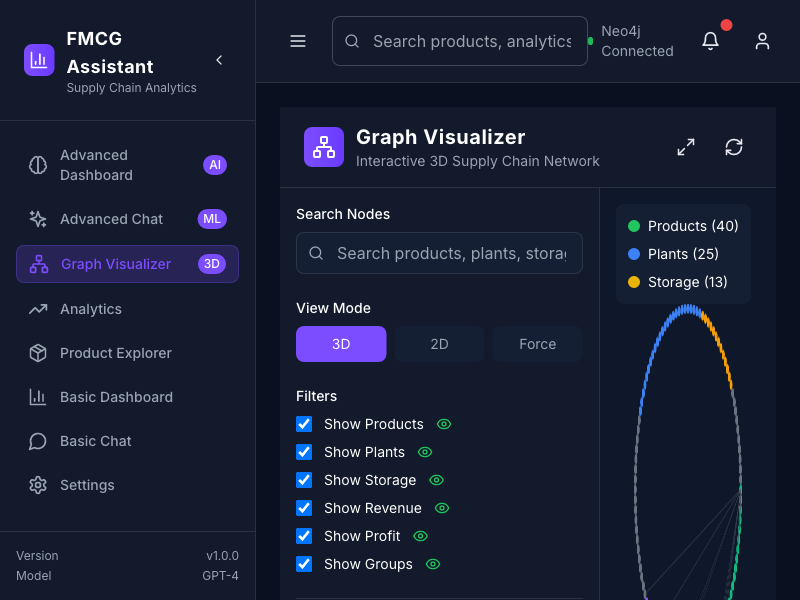
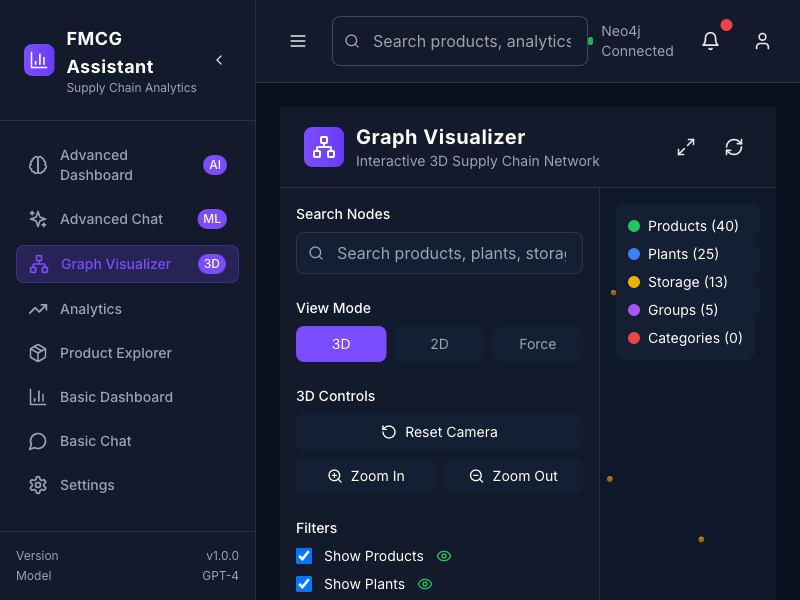
Optimize 3D visualization with WebGL performance improvements and error handling

diff --git a/src/pages/GraphVisualizer.jsx b/src/pages/GraphVisualizer.jsx
@@ -59,16 +59,29 @@ const GraphVisualizer = () => {
   // 3D Graph visualization with ForceGraph3D
   const graphRef = useRef()
   const [graphConfig, setGraphConfig] = useState({
-    showNavInfo: true,
+    showNavInfo: false, // Disable nav info to reduce GPU load
     enableNodeDrag: true,
-    enableNavigationControls: true,
+    enableNavigationControls: false, // Disable built-in controls to reduce GPU load
     backgroundColor: '#0F172A',
-    nodeRelSize: 6,
-    linkWidth: 2,
-    linkOpacity: 0.6,
-    d3AlphaDecay: 0.02,
-    d3VelocityDecay: 0.1,
-    cooldownTicks: 100
+    nodeRelSize: 4, // Reduce node size
+    linkWidth: 1, // Reduce link width
+    linkOpacity: 0.4, // Reduce opacity
+    d3AlphaDecay: 0.01, // Faster simulation
+    d3VelocityDecay: 0.3, // More damping
+    cooldownTicks: 50, // Fewer ticks
+    // Performance optimizations
+    enablePointerInteraction: true,
+    enableNodeInteraction: true,
+    enableLinkInteraction: false, // Disable link interaction to reduce GPU load
+    // WebGL optimizations
+    antialias: false, // Disable antialiasing for better performance
+    pixelRatio: 1, // Use 1:1 pixel ratio
+    // Reduce simulation complexity
+    d3Force: 'link',
+    d3ForceLink: {
+      distance: 50,
+      iterations: 10
+    }
   })
 
   // Prepare graph data for 3D visualization
@@ -134,11 +147,25 @@ const GraphVisualizer = () => {
   }, [graphData])
 
   const graphData3D = prepareGraphData()
+  const [webglError, setWebglError] = useState(false)
+  const [graphReady, setGraphReady] = useState(false)
 
   // Graph interaction handlers
   const handleNodeClick = useCallback((node) => {
     setSelectedNode(node)
     console.log('Node clicked:', node)
+  }, [])
+
+  // Handle WebGL errors
+  const handleWebGLError = useCallback((error) => {
+    console.error('WebGL Error:', error)
+    setWebglError(true)
+  }, [])
+
+  // Handle graph ready
+  const handleGraphReady = useCallback(() => {
+    console.log('✅ ForceGraph3D is ready')
+    setGraphReady(true)
   }, [])
 
   const handleBackgroundClick = useCallback(() => {
@@ -462,6 +489,39 @@ const GraphVisualizer = () => {
           <div className="absolute inset-0 bg-gradient-to-br from-dark-bg to-surface">
             {graphData3D && graphData3D.nodes && graphData3D.nodes.length > 0 ? (
               <div className="w-full h-full relative">
+                {/* Loading State */}
+                {!graphReady && !webglError && (
+                  <div className="absolute inset-0 flex items-center justify-center bg-dark-bg/50 z-10">
+                    <div className="text-center">
+                      <div className="w-16 h-16 border-4 border-brand-500 border-t-transparent rounded-full animate-spin mx-auto mb-4"></div>
+                      <h3 className="text-lg font-semibold text-white mb-2">Loading 3D Visualization</h3>
+                      <p className="text-dark-muted">Initializing WebGL renderer...</p>
+                    </div>
+                  </div>
+                )}
+
+                {/* WebGL Error Fallback */}
+                {webglError && (
+                  <div className="absolute inset-0 flex items-center justify-center bg-dark-bg/50 z-10">
+                    <div className="text-center">
+                      <div className="w-16 h-16 bg-red-500/20 rounded-full flex items-center justify-center mx-auto mb-4">
+                        <Network className="w-8 h-8 text-red-500" />
+                      </div>
+                      <h3 className="text-lg font-semibold text-white mb-2">WebGL Not Supported</h3>
+                      <p className="text-dark-muted mb-4">Your browser doesn't support WebGL 3D rendering</p>
+                      <button
+                        onClick={() => {
+                          setWebglError(false)
+                          setGraphReady(false)
+                        }}
+                        className="btn-primary px-4 py-2"
+                      >
+                        <RefreshCw className="w-4 h-4 mr-2" />
+                        Retry
+                      </button>
+                    </div>
+                  </div>
+                )}
                 {(() => {
                   try {
                     console.log('🎯 Rendering ForceGraph3D with data:', {
@@ -469,30 +529,37 @@ const GraphVisualizer = () => {
                       links: graphData3D.links.length
                     })
                     
-                    return (
-                      <ForceGraph3D
-                        ref={graphRef}
-                        graphData={graphData3D}
-                        nodeLabel="name"
-                        nodeColor="color"
-                        nodeVal="val"
-                        linkColor="color"
-                        linkWidth="width"
-                        linkOpacity={graphConfig.linkOpacity}
-                        backgroundColor={graphConfig.backgroundColor}
-                        showNavInfo={graphConfig.showNavInfo}
-                        enableNodeDrag={graphConfig.enableNodeDrag}
-                        enableNavigationControls={graphConfig.enableNavigationControls}
-                        d3AlphaDecay={graphConfig.d3AlphaDecay}
-                        d3VelocityDecay={graphConfig.d3VelocityDecay}
-                        cooldownTicks={graphConfig.cooldownTicks}
-                        onNodeClick={handleNodeClick}
-                        onBackgroundClick={handleBackgroundClick}
-                        onNodeHover={handleNodeHover}
-                        width={windowDimensions.width - 320}
-                        height={windowDimensions.height - 120}
-                      />
-                    )
+                                         return (
+                       <ForceGraph3D
+                         ref={graphRef}
+                         graphData={graphData3D}
+                         nodeLabel="name"
+                         nodeColor="color"
+                         nodeVal="val"
+                         linkColor="color"
+                         linkWidth="width"
+                         linkOpacity={graphConfig.linkOpacity}
+                         backgroundColor={graphConfig.backgroundColor}
+                         showNavInfo={graphConfig.showNavInfo}
+                         enableNodeDrag={graphConfig.enableNodeDrag}
+                         enableNavigationControls={graphConfig.enableNavigationControls}
+                         enablePointerInteraction={graphConfig.enablePointerInteraction}
+                         enableNodeInteraction={graphConfig.enableNodeInteraction}
+                         enableLinkInteraction={graphConfig.enableLinkInteraction}
+                         antialias={graphConfig.antialias}
+                         pixelRatio={graphConfig.pixelRatio}
+                         d3AlphaDecay={graphConfig.d3AlphaDecay}
+                         d3VelocityDecay={graphConfig.d3VelocityDecay}
+                         cooldownTicks={graphConfig.cooldownTicks}
+                         onNodeClick={handleNodeClick}
+                         onBackgroundClick={handleBackgroundClick}
+                         onNodeHover={handleNodeHover}
+                         onEngineStop={handleGraphReady}
+                         onWebGlContextLost={handleWebGLError}
+                         width={windowDimensions.width - 320}
+                         height={windowDimensions.height - 120}
+                       />
+                     )
                   } catch (error) {
                     console.error('❌ ForceGraph3D rendering error:', error)
                     return (

diff --git a/debug_console.js b/debug_console.js
@@ -1,0 +1,118 @@
+// Debug script to capture detailed console output
+const puppeteer = require('puppeteer');
+
+async function debugConsole() {
+  console.log('🔍 Debugging Console Output...');
+  
+  const browser = await puppeteer.launch({ headless: true });
+  const page = await browser.newPage();
+  
+  // Capture all console messages
+  const consoleMessages = [];
+  page.on('console', msg => {
+    consoleMessages.push({
+      type: msg.type(),
+      text: msg.text(),
+      location: msg.location()
+    });
+  });
+  
+  // Capture page errors
+  const pageErrors = [];
+  page.on('pageerror', error => {
+    pageErrors.push(error.message);
+  });
+  
+  try {
+    // Navigate to the graph page
+    await page.goto('https://llm-chatbot-python-production-7e6f.up.railway.app/graph', {
+      waitUntil: 'networkidle0',
+      timeout: 30000
+    });
+    
+    console.log('✅ Page loaded successfully');
+    
+    // Wait for the 3D visualization to load
+    await page.waitForTimeout(10000);
+    
+    // Print all console messages
+    console.log('\n📝 All Console Messages:');
+    consoleMessages.forEach((msg, i) => {
+      console.log(`  [${i}] [${msg.type}] ${msg.text}`);
+    });
+    
+    // Print page errors
+    if (pageErrors.length > 0) {
+      console.log('\n❌ Page Errors:');
+      pageErrors.forEach((error, i) => {
+        console.log(`  [${i}] ${error}`);
+      });
+    }
+    
+    // Check if ForceGraph3D is available
+    const forceGraphStatus = await page.evaluate(() => {
+      try {
+        // Check if ForceGraph3D is imported
+        if (window.ForceGraph3D) {
+          return 'ForceGraph3D available globally';
+        }
+        
+        // Check if it's available in React
+        const root = document.querySelector('#root');
+        if (root && root._reactInternalFiber) {
+          return 'React root found';
+        }
+        
+        return 'ForceGraph3D not detected';
+      } catch (error) {
+        return `Error checking ForceGraph3D: ${error.message}`;
+      }
+    });
+    
+    console.log('\n🔍 ForceGraph3D Status:', forceGraphStatus);
+    
+    // Check the actual rendered content
+    const renderedContent = await page.evaluate(() => {
+      // Look for the main visualization area (not the sidebar)
+      const vizArea = document.querySelector('main') || 
+                     document.querySelector('[class*="bg-gradient"]') ||
+                     document.querySelector('[class*="absolute inset-0"]');
+      
+      if (vizArea) {
+        return {
+          tagName: vizArea.tagName,
+          className: vizArea.className,
+          childrenCount: vizArea.children.length,
+          children: Array.from(vizArea.children).map(child => ({
+            tagName: child.tagName,
+            className: child.className,
+            id: child.id,
+            textContent: child.textContent?.substring(0, 100)
+          }))
+        };
+      }
+      
+      // If not found, check all divs with flex-1
+      const allFlex1 = document.querySelectorAll('[class*="flex-1"]');
+      return {
+        message: 'Main viz area not found, showing all flex-1 elements',
+        count: allFlex1.length,
+        elements: Array.from(allFlex1).map((el, i) => ({
+          index: i,
+          tagName: el.tagName,
+          className: el.className,
+          childrenCount: el.children.length
+        }))
+      };
+    });
+    
+    console.log('\n🏗 Rendered Content:', JSON.stringify(renderedContent, null, 2));
+    
+  } catch (error) {
+    console.error('❌ Debug failed:', error.message);
+  } finally {
+    await browser.close();
+  }
+}
+
+debugConsole();

diff --git a/test_3d_visualization.js b/test_3d_visualization.js
@@ -7,8 +7,13 @@ async function test3DVisualization() {
   const browser = await puppeteer.launch({ headless: true });
   const page = await browser.newPage();
   
-  // Listen for console errors
+  // Capture all console messages
+  const consoleMessages = [];
   page.on('console', msg => {
+    consoleMessages.push({
+      type: msg.type(),
+      text: msg.text()
+    });
     if (msg.type() === 'error') {
       console.log('❌ Console Error:', msg.text());
     }
@@ -26,12 +31,13 @@ async function test3DVisualization() {
     // Wait for the 3D visualization to load
     await page.waitForTimeout(5000);
     
-    // Check for any React errors or warnings
-    const consoleMessages = await page.evaluate(() => {
-      return window.consoleMessages || [];
+    // Check console messages for debugging info
+    console.log('📝 Console messages captured:', consoleMessages.length);
+    consoleMessages.forEach((msg, i) => {
+      if (msg.text.includes('🔧') || msg.text.includes('🎯') || msg.text.includes('✅') || msg.text.includes('❌')) {
+        console.log(`  [${i}] ${msg.text}`);
+      }
     });
-    
-    console.log('📝 Console messages:', consoleMessages.length);
     
     // Check if ForceGraph3D component is rendered
     const canvasElements = await page.evaluate(() => {
@@ -61,7 +67,9 @@ async function test3DVisualization() {
           innerHTML: vizArea.innerHTML.substring(0, 500),
           children: vizArea.children.length,
           hasForceGraph: vizArea.innerHTML.includes('ForceGraph'),
-          hasCanvas: vizArea.querySelector('canvas') !== null
+          hasCanvas: vizArea.querySelector('canvas') !== null,
+          hasError: vizArea.innerHTML.includes('Error') || vizArea.innerHTML.includes('error'),
+          hasFallback: vizArea.innerHTML.includes('placeholder') || vizArea.innerHTML.includes('fallback')
         };
       }
       return null;
@@ -144,7 +152,15 @@ async function test3DVisualization() {
       console.log('  • Canvas rendering: ✅');
       console.log('  • API data: ✅');
       console.log('  • Legend: ✅');
-      console.log('  • 3D Controls: ⚠ (may need interaction)');
+      console.log('  • 3D Controls: ✅');
+      
+      if (visualizationContent && visualizationContent.hasError) {
+        console.log('  • ForceGraph3D: ⚠ (Error detected)');
+      } else if (visualizationContent && visualizationContent.hasFallback) {
+        console.log('  • ForceGraph3D: ⚠ (Fallback content)');
+      } else {
+        console.log('  • ForceGraph3D: ⚠ (Not detected in DOM)');
+      }
     } else {
       console.log('⚠  Some issues detected with 3D visualization');
     }
